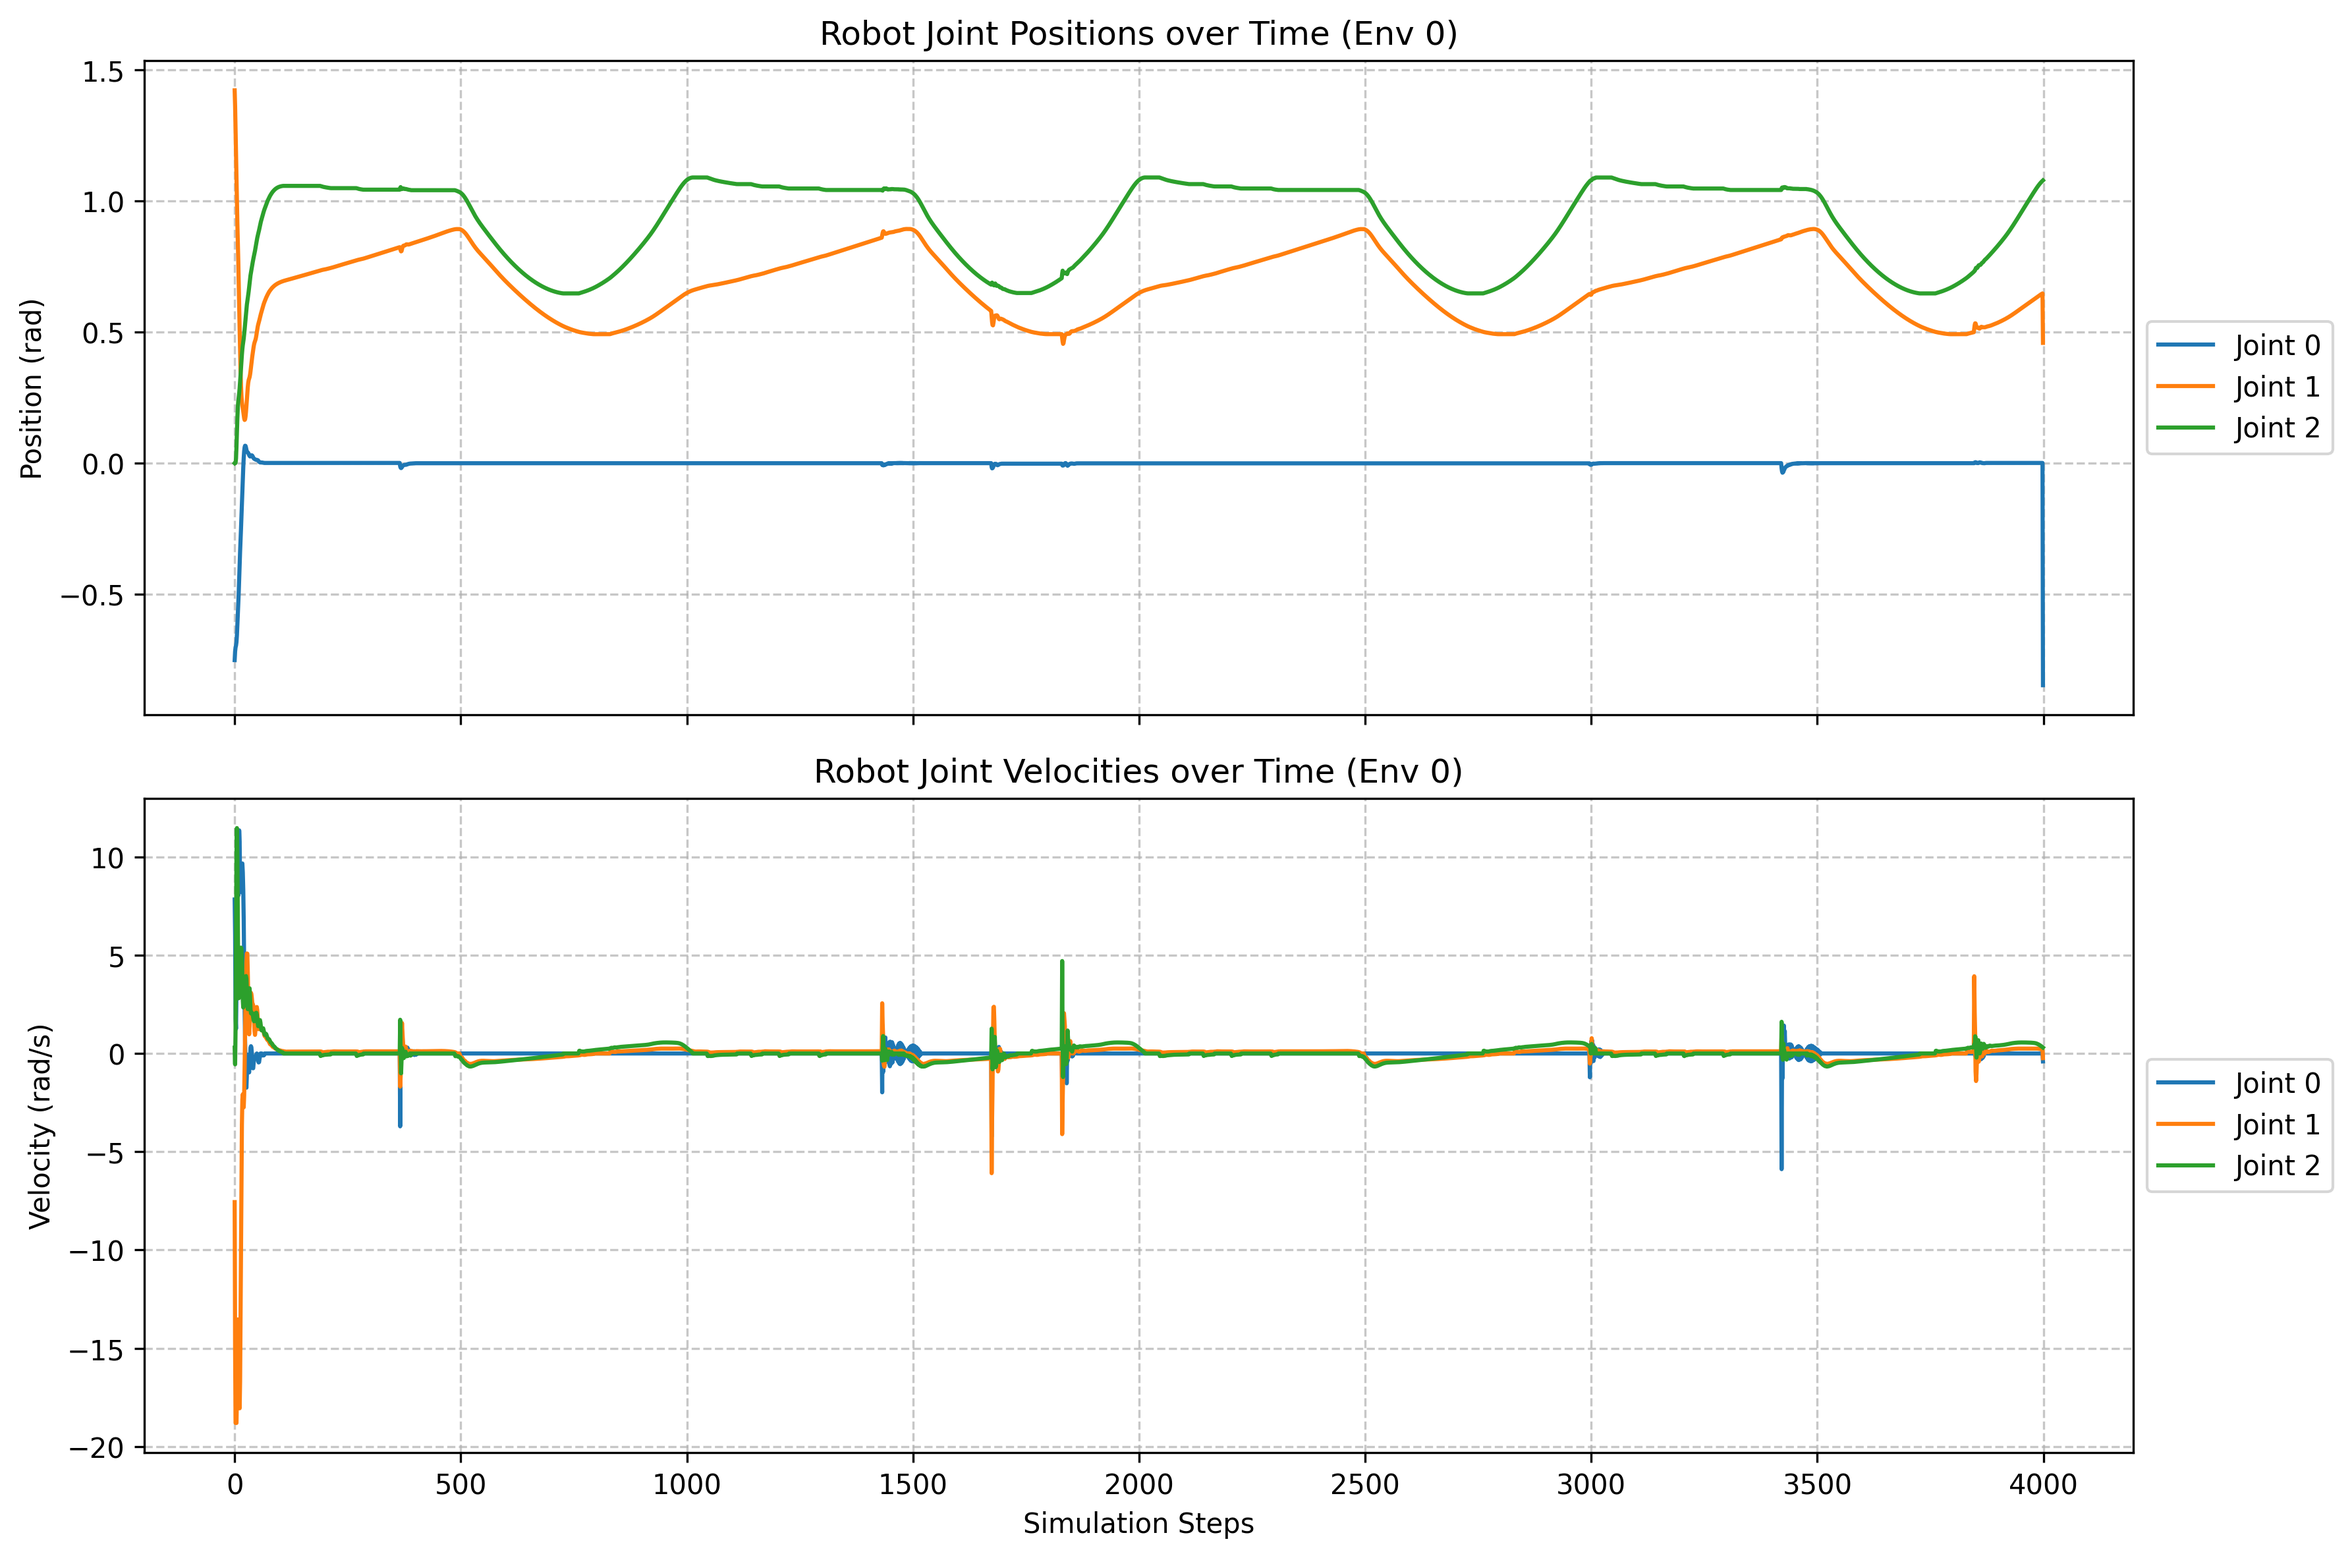
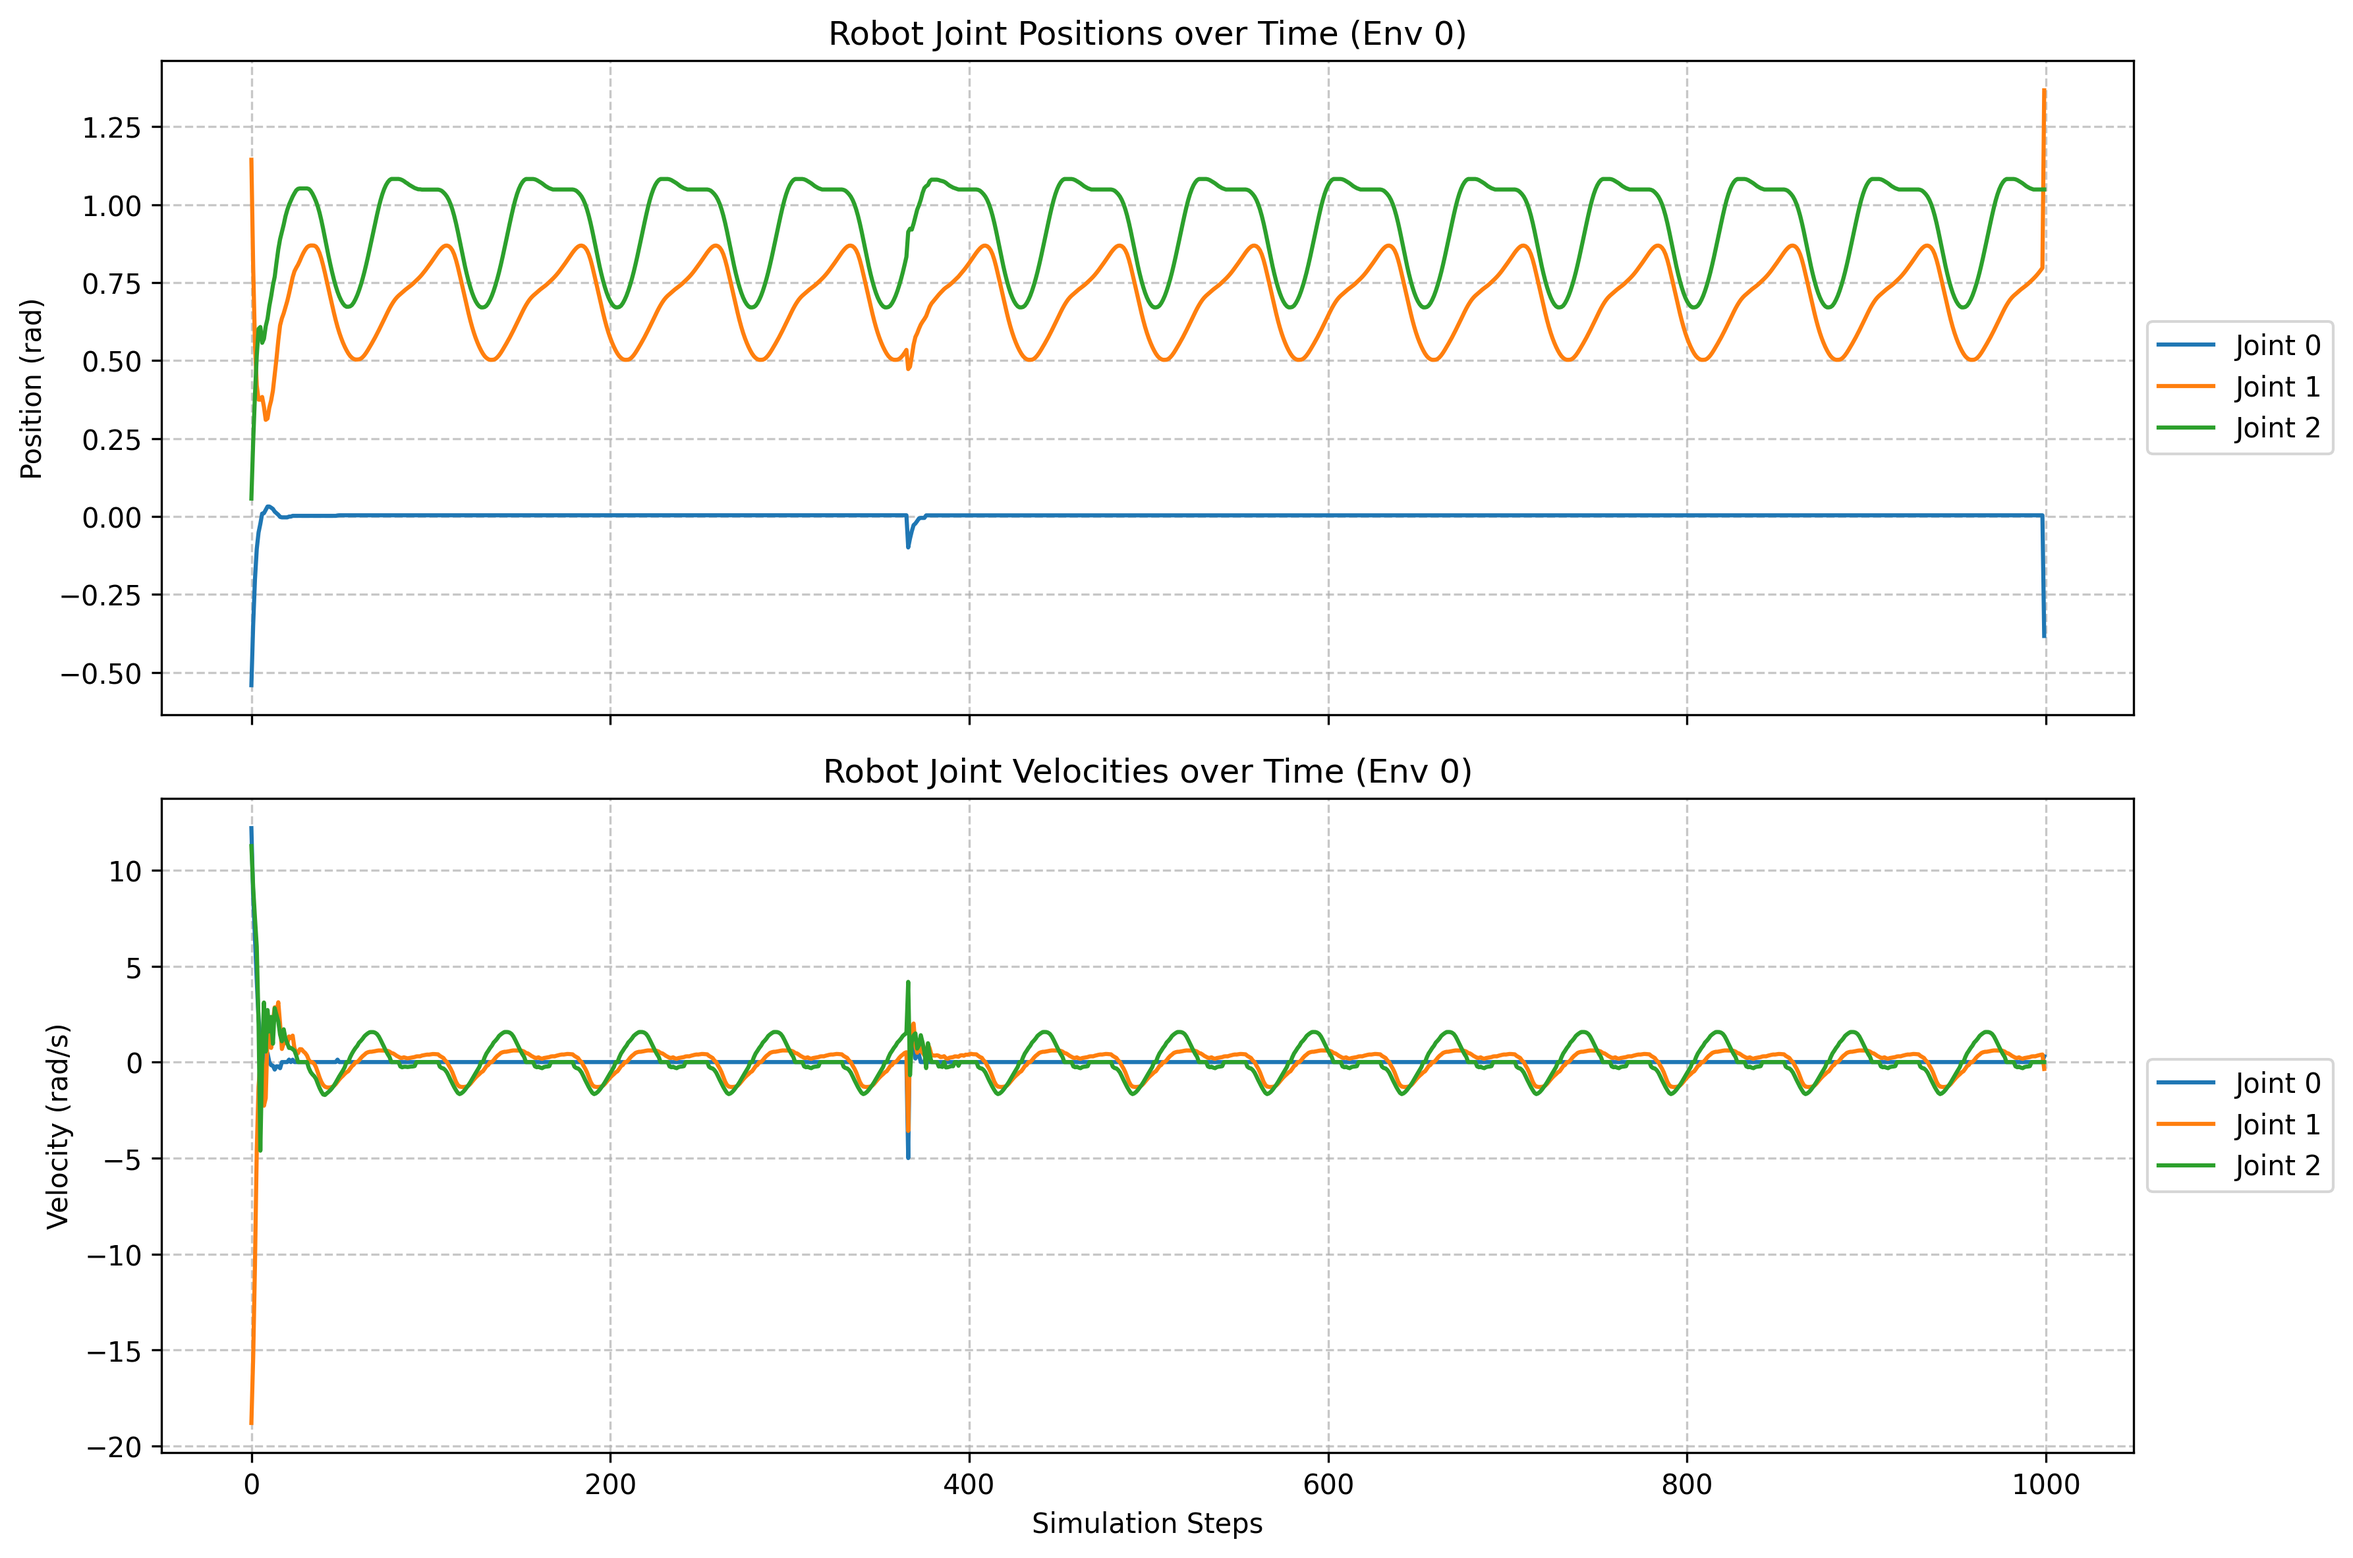
Latest.

diff --git a/source/robot_lab/tasks/leg/env_cfg.py b/source/robot_lab/tasks/leg/env_cfg.py
@@ -230,11 +230,9 @@ class RewardsCfg:
             "foot_centre_pos": (-0.0025, 0.112, 0.643)
         } # Was (-0.0025, 0.112, 0.743)
     )
-    #pen_joint_torque                = RewTerm(func=mdp.joint_torques_l2, weight=-0.00008)
+    pen_joint_torque                = RewTerm(func=mdp.joint_torques_l2, weight=-0.000008)
     #pen_joint_accel                 = RewTerm(func=mdp.joint_acc_l2, weight=-2.5e-07)
-    #pen_action_rate                 = RewTerm(func=mdp.action_rate_l2, weight=-16.0)
-    #pen_action_smoothness           = RewTerm(func=mdp.ActionSmoothnessPenalty, weight=-0.04)
-
+    pen_action_rate                 = RewTerm(func=mdp.action_rate_l2, weight=-0.03)
 
 ### --- MDP TERMINATIONS --- ###
 @configclass

diff --git a/scripts/plot_joints.py b/scripts/plot_joints.py
@@ -5,7 +5,7 @@ import matplotlib.pyplot as plt
 
 def main():
     # 1. Load the logged data
-    file_path = "/home/c/Documents/harold/sim/logs/rsl_rl/leg/2026-04-04_17-32-03/joint_data_log.npz"
+    file_path = "/home/c/Documents/harold/sim/logs/rsl_rl/leg/2026-04-05_02-45-42/joint_data_log.npz"
     try:
         data = np.load(file_path)
     except FileNotFoundError:
